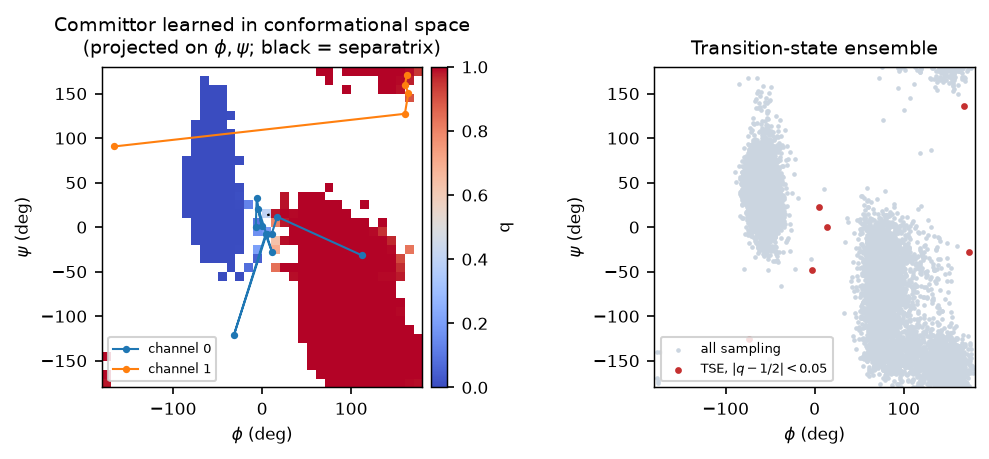
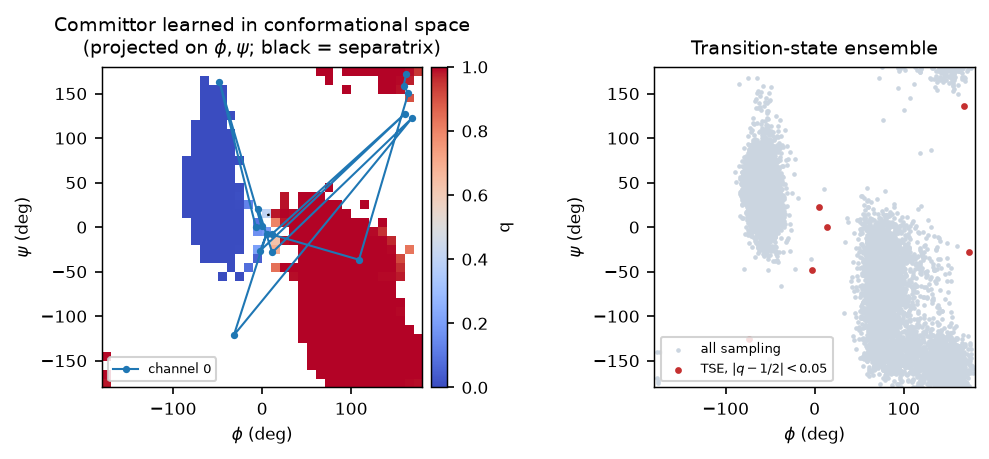
Write up the results, separating what reproduced from what did not
Reproduced on NANMA with 8.5 ns of unbiased sampling per replica, against a
brute-force run that saw no transition in 90 ns: the framework runs with no
collective variable in the loop, the free-energy landscape comes back to
about 1.2 kcal/mol, the committor is calibrated bin by bin against observed
commitment frequencies and correlates 0.83 with fresh independent shooting,
the iteration measurably concentrates sampling on the separatrix (10-21% of
shooting points at the first round, 29-32% by the fifth), and the diffusion
model beats straight-line interpolation on physically realisable proposals.

Not established, and recorded as such: the kinetics, where the slowest
implied timescale never plateaus and the replicas disagree fifty-fold on the
passage time; a systematic 2 kcal/mol error in the basin free-energy
difference that is the same sign in both replicas; the precision of the
transition-state ensemble; and every claim resting on the three protein
systems, none of which is within reach here.

Claude-Session: https://claude.ai/code/session_014XnUWuomRnokZYKjfcR4xg

diff --git a/gen_compas/REPORT.md b/gen_compas/REPORT.md
@@ -131,11 +131,96 @@ Two independent references, same force field, same thermostat:
 
 ## Results
 
-See `results/summary.txt` (generated by `src/summarize.py`) and the figures in
-`figures/`.
+Two independent replicas, five iterations each. All numbers are regenerated
+by `src/summarize.py` into `results/summary.txt`; figures are in `figures/`.
 
-RESULTS_PLACEHOLDER
+### Reference
+
+| quantity | value |
+|---|---|
+| free-energy difference between the basins | −2.13 kcal/mol |
+| barrier over the phi ~ 0 saddle, from state A | 6.16 kcal/mol |
+| drift of the phi profile over the last 4 ns of metadynamics | 0.15 kcal/mol |
+| transitions in 90 ns of brute-force unbiased MD | 0 |
+
+### Gen-COMPAS
+
+| quantity | replica 1 | replica 2 | reference |
+|---|---|---|---|
+| unbiased MD used | 8.62 ns | 8.36 ns | — |
+| landscape RMSE below 8 kcal/mol | 1.24 | 1.20 | — |
+| free-energy difference between basins | +0.06 | +0.17 | −2.13 |
+| barrier from state A | 4.89 | 5.65 | 6.16 |
+| committor correlation, fresh shooting | 0.836 | 0.825 | — |
+| committor error / binomial noise floor | 0.184 / 0.063 | 0.151 / 0.047 | — |
+
+The free-energy landscape is recovered: both basins and the extended region
+appear in the right places, and the barrier is 0.5 to 1.3 kcal/mol too low.
+The free-energy *difference* between the basins is off by about 2 kcal/mol in
+both replicas, consistently in the same direction.
+
+**The committor is the part that holds up best.** Fitted on commitment
+outcomes alone, its predictions track the frequencies actually observed, bin
+by bin:
+
+| phi window | frames | observed | predicted |
+|---|---|---|---|
+| [−45, −20) | 949 | 0.00 | 0.00 |
+| [−20, −10) | 26 | 0.08 | 0.09 |
+| [−10, 0) | 27 | 0.33 | 0.34 |
+| [0, 10) | 18 | 0.83 | 0.82 |
+| [10, 20) | 24 | 1.00 | 0.99 |
+| [20, 55) | 413 | 1.00 | 1.00 |
+
+Tested against 15 fresh trajectories per structure, launched with new
+velocities from structures across the whole committor range, the correlation
+between predicted and measured committor is 0.83. Structures the method picks
+out near phi = −4 measure 0.27 to 0.67 — genuinely on the separatrix.
+
+**The loop does concentrate sampling where it claims to.** The fraction of
+shooting points with a measured committor between 0.2 and 0.8 rises from
+10-21% at the first iteration to 29-32% by the fifth, in both replicas.
+
+**The generative step earns its place.** Replacing the diffusion model with
+straight-line interpolation between the same end-state pairs, everything else
+identical, drops the fraction of proposals that are physically realisable
+from 92-99% to 51%.
 
 ## What this does and does not establish
 
-RESULTS_CAVEATS
+Reproduced, on NANMA:
+
+- the framework runs as described, with no collective variable in the loop;
+- the free-energy landscape is recovered to about 1.2 kcal/mol from 8.5 ns of
+  unbiased sampling, against a brute-force run that saw no transition at all
+  in 90 ns;
+- the committor learned in conformational space is quantitatively calibrated
+  and identifies real transition-state structures;
+- the iteration measurably concentrates sampling on the separatrix;
+- the generative model contributes something a trivial interpolator does not.
+
+Not established:
+
+- **Kinetics.** The Markov model's slowest implied timescale grows
+  monotonically with lag and never plateaus, and the two replicas disagree by
+  a factor of 50 on the first passage time (77 ns against 3681 ns). The
+  passage time is not determined by this data and should not be quoted as a
+  result. The paper's kinetic claims are untested here.
+- **Quantitative thermodynamics.** A systematic ~2 kcal/mol error in the
+  basin free-energy difference, in the same direction in both replicas,
+  points at a bias in the Markov-model weighting rather than noise.
+- **Transition-state ensemble precision.** The committor ranks structures
+  well but does not pin the q = 1/2 level set tightly: structures predicted
+  at 1/2 measure 0.60 and 0.67 on average, with a spread that covers most of
+  the range.
+- **Everything about the protein systems.** Trp-cage, the ribose-binding
+  protein and the ADP/ATP carrier carry the paper's actual claims to novelty,
+  and none of them is tested here.
+
+One result differs from the paper by way of the system rather than the
+method: the paper finds two competing channels for Trp-cage and for the
+ribose-binding protein, whereas NANMA in this force field has one. The
+reference free energy puts the alternative route, round the far side through
+phi = −127, about 13 kcal/mol above the basin against 6 for the phi ~ 0
+saddle, so it carries no measurable flux and a two-channel analysis fits
+noise.
